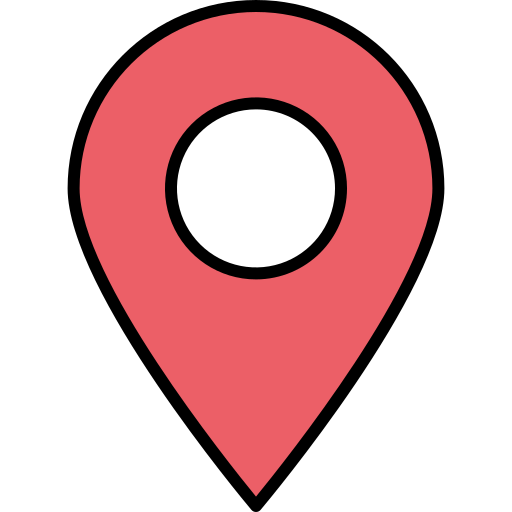
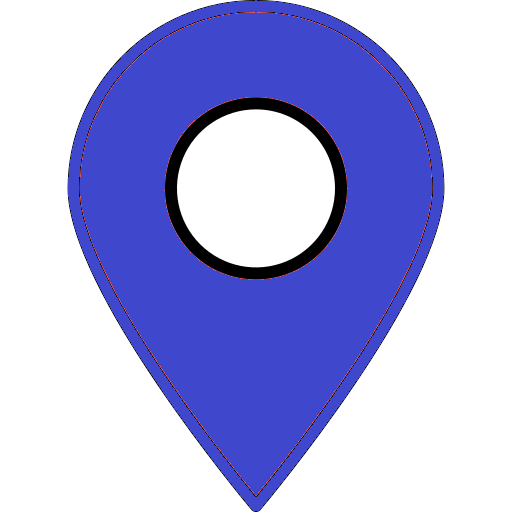
inicialmente colocando o visual de informações do comercio individual e insert

diff --git a/app/templates/mapa.html b/app/templates/mapa.html
@@ -23,7 +23,7 @@
             <meta name="viewport" content="width=device-width,
                 initial-scale=1.0, maximum-scale=1.0, user-scalable=no" />
             <style>
-                #map_e81b630deeb34ff785893fc095f26476 {
+                #map_9c63329d4e8943fe9f2af3c4706f98dd {
                     position: relative;
                     width: 75.0%;
                     height: 75.0%;
@@ -35,15 +35,15 @@
 </head>
 <body>    
     
-            <div class="folium-map" id="map_e81b630deeb34ff785893fc095f26476" ></div>
+            <div class="folium-map" id="map_9c63329d4e8943fe9f2af3c4706f98dd" ></div>
         
 </body>
 <script>    
     
-            var map_e81b630deeb34ff785893fc095f26476 = L.map(
-                "map_e81b630deeb34ff785893fc095f26476",
+            var map_9c63329d4e8943fe9f2af3c4706f98dd = L.map(
+                "map_9c63329d4e8943fe9f2af3c4706f98dd",
                 {
-                    center: [35.803788, -83.580553],
+                    center: [30.70032, -86.12317],
                     crs: L.CRS.EPSG3857,
                     zoom: 15,
                     zoomControl: true,
@@ -55,26 +55,26 @@
 
         
     
-            var tile_layer_f3495bce662d4694ae2483fb98a00d4b = L.tileLayer(
+            var tile_layer_99378c3328b74a20b4ee6708b00c0e3d = L.tileLayer(
                 "https://cartodb-basemaps-{s}.global.ssl.fastly.net/light_all/{z}/{x}/{y}.png",
                 {"attribution": "\u0026copy; \u003ca href=\"http://www.openstreetmap.org/copyright\"\u003eOpenStreetMap\u003c/a\u003e contributors \u0026copy; \u003ca href=\"http://cartodb.com/attributions\"\u003eCartoDB\u003c/a\u003e, CartoDB \u003ca href =\"http://cartodb.com/attributions\"\u003eattributions\u003c/a\u003e", "detectRetina": false, "maxNativeZoom": 18, "maxZoom": 18, "minZoom": 0, "noWrap": false, "opacity": 1, "subdomains": "abc", "tms": false}
-            ).addTo(map_e81b630deeb34ff785893fc095f26476);
+            ).addTo(map_9c63329d4e8943fe9f2af3c4706f98dd);
         
     
-            var marker_63ece5d92a1d429c9f3c5fd9ae830625 = L.marker(
-                [35.803788, -83.580553],
+            var marker_894ccc64c54346a9a7fcb6b7b943c7b5 = L.marker(
+                [30.70032, -86.12317],
                 {}
-            ).addTo(map_e81b630deeb34ff785893fc095f26476);
+            ).addTo(map_9c63329d4e8943fe9f2af3c4706f98dd);
         
     
-        var popup_2eaf15bf1f8940ee978cae3d973280e8 = L.popup({"maxWidth": "100%"});
+        var popup_032273bb513a40c3aee0a6720eec5018 = L.popup({"maxWidth": "100%"});
 
         
-            var html_3bd1d4d18b8c409eb6aa51de6e1780c1 = $(`<div id="html_3bd1d4d18b8c409eb6aa51de6e1780c1" style="width: 100.0%; height: 100.0%;">Taco Bell</div>`)[0];
-            popup_2eaf15bf1f8940ee978cae3d973280e8.setContent(html_3bd1d4d18b8c409eb6aa51de6e1780c1);
+            var html_88ff505be2c34930be19180627d7d13c = $(`<div id="html_88ff505be2c34930be19180627d7d13c" style="width: 100.0%; height: 100.0%;">SONIC Drive-In</div>`)[0];
+            popup_032273bb513a40c3aee0a6720eec5018.setContent(html_88ff505be2c34930be19180627d7d13c);
         
 
-        marker_63ece5d92a1d429c9f3c5fd9ae830625.bindPopup(popup_2eaf15bf1f8940ee978cae3d973280e8)
+        marker_894ccc64c54346a9a7fcb6b7b943c7b5.bindPopup(popup_032273bb513a40c3aee0a6720eec5018)
         ;
 
         

diff --git a/app/templates/insercao.html b/app/templates/insercao.html
@@ -31,22 +31,45 @@
 		<h2>Inserção</h2>
 		<form action="/salvar_insercao" method="POST" name="frm_insercao" class="ml-3">
 			<div class="form-group">
-				<label for="nome">Nome:</label>
-				<input type="text" class="form-control" name="nome">
+				<label for="name">Nome:</label>
+				<input type="text" class="form-control" name="name">
 			</div>
 			<div class="form-group">
-				<label for="idade">Idade:</label>
-				<input type="number" class="form-control" name="idade" min="1" max="125">
+				<label for="address">Address:</label>
+				<input type="text" class="form-control" name="address" min="1" max="255">
 			</div>
 			<div class="form-group">
-				<select class="form-control" name="sexo">
-					<option value="M">Sexo: Masculino</option>
-					<option value="F">Sexo: Feminino</option>
+				<label for="categories">categories:</label>
+				<input type="text" class="form-control" name="categories" min="1" max="255">
+			</div>
+			<div class="form-group">
+				<label for="city">Cidade:</label>
+				<input type="text" class="form-control" name="city" min="1" max="225">
+			</div>
+			<div class="form-group">
+				<label for="country">País:(Apenas 2 digitos)</label>
+				<input type="text" class="form-control" name="country" maxlength="2">
+			</div>
+			<div class="form-group">
+				<label for="latitude">Latitude:</label>
+				<input type="number" class="form-control" name="latitude" >
+			</div>
+			<div class="form-group">
+				<label for="longitude">Longitude:</label>
+				<input type="number" class="form-control" name="longitude">
+			</div>
+			<div class="form-group">
+				<label for="postalCode">PostalCode:</label>
+				<input type="number" class="form-control" name="postalCode">
+			</div>
+
+			<div class="form-group">
+				<select class="form-control col-md-2" name="province11">
+                                
+					{% for comercioProvincia in province %}
+						<option nowrap="true" >{{comercioProvincia.province}}</option>
+					{% endfor %}
 				</select>
-			</div>
-			<div class="form-group">
-				<label for="salario">Salário:</label>
-				<input type="text" class="form-control" name="salario">
 			</div>
 
 			<a href="/listagem" class="btn btn-secondary" role="button">Cancelar</a>

diff --git a/app/templates/comerciopesquisado.html b/app/templates/comerciopesquisado.html
@@ -11,7 +11,21 @@
     <title>Comercio</title>
 </head>
 <body>
-	<h2>{{pesquisa}}</h2>
+	<div class="container-fluid padding" style="background-color:rgb(248, 249, 250);"> 
+		<div class="row text-center padding ">
+			<div class="col-12">
+				<p>
+				
+				<img class="img-responsive center-block" src="../static/Imagens/enderecoazul-removebg.png" height= "200"; width = "156"; >
+				<p>
+					{% for comercio in conteudo %}
+					{{comercio.name}}
+					{% endfor %}
+				</p>
+				</p>
+			</div>
+		</div>
+		</div>
 
 {% include 'mapa.html' %}
 <ul class="container " >
@@ -46,7 +60,7 @@
 		<div class=" col-md-3">
 			<div style="display: flex; justify-content: center; margin: 50px;">
 
-			<img  src="../static/Imagens/endereco.png"height= "200"; width = "112";>
+			<img  src="../static/Imagens/enderecoazul-removebg.png"height= "200"; width = "112";>
 			<h1>Localizado</h1>
 
 			</div>
@@ -74,12 +88,12 @@
 
 		<div class="servico-content col-md-8" style="margin-top: 150px; margin-bottom: 100px;">
 			{% for comercio in conteudo %}
-				<h8 style = "font-size:12px; margin:60px; margin-top: 260px;">{{comercio.websites}}</h8>
+				<h8 style = "font-size:12px; margin:60px; margin-top: 260px;"><a href="{{comercio.websites}}">  {{comercio.websites}}</a></h8>
 			{% endfor %}
 		</div>
 
 		<div class=" servico-icon col-md-4">
-			<img src="../static/Imagens/websites.png"height= "400"; width = "312";>
+			<img src="../static/Imagens/enderecoazul.jpg"height= "400"; width = "312";>
 		</div>
 		
 	

diff --git a/app/controllers/default.py b/app/controllers/default.py
@@ -2,7 +2,7 @@ from flask import render_template, request
 from flask.helpers import send_file
 from app import app, db
 from flask_mysqldb import MySQL
-from app.models.tables import Pessoa
+from app.models.tables import Comercio
 import folium
 
 
@@ -84,25 +84,39 @@ def consulta():
 
 @app.route('/insercao')
 def insercao():
-    return render_template('insercao.html')
+
+    cur = mysql.connection.cursor()
+
+
+    #get articles
+    cur.execute("SELECT * FROM comercio_food")
+
+
+    conteudo = cur.fetchall()
+
+    return render_template('insercao.html',province=conteudo)
 
 
 @app.route('/salvar_insercao', methods=['POST'])
 
 def salvar_insercao():
-    form = Pessoa(request.form)
-    Nome = form.nome.data
-    Idade = form.idade.data
-    Sexo = form.sexo.data
-    Salario = form.salario.data
-
+    form = Comercio(request.form)
+    name = form.name.data
+    address = form.address.data
+    categories = form.categories.data
+    city = form.city.data
+    country = form.country.data
+    latitude = form.latitude.data
+    longitude = form.longitude.data
+    postalCode = form.postalCode.data
+    province = form.province.data
     
     
 
     cur = mysql.connection.cursor()
 
     #get articles
-    cur.execute("INSERT INTO pessoas(nome, idade, sexo, salario) VALUES(%s,%s,%s,%s)",(Nome, Idade, Sexo, Salario))
+    cur.execute("INSERT INTO pessoas(name, address, categories, city, country, latitude, longitude,postalCode, province) VALUES(%s,%s,%s,%s,%s, %d,%d, %d, %s)",(name, address, categories, city, country, latitude,longitude, postalCode, province))
 
     # commit to DB
     mysql.connection.commit()

diff --git a/app/models/tables.py b/app/models/tables.py
@@ -4,8 +4,13 @@ from wtforms import Form, StringField , IntegerField, FloatField, validators
 
 
 
-class Pessoa(Form):
-    nome = StringField('nome',[validators.Length(min=1,max=50)])
-    idade = IntegerField('idade')
-    sexo = StringField('sexo',[validators.Length(min=1,max=1)])
-    salario = FloatField('salario')
+class Comercio(Form):
+    name = StringField('name',[validators.Length(min=1,max=50)])
+    address = StringField('address',[validators.Length(min=1,max=255)])
+    categories = StringField('categories',[validators.Length(min=1,max=255)])
+    city = StringField('city',[validators.Length(min=1,max=255)])
+    country = StringField('country',[validators.Length(min=1,max=255)])
+    latitude = FloatField('latitude')
+    longitude = FloatField('longitude')
+    postalCode = IntegerField('postalCode')
+    province = StringField('province',[validators.Length(min=1,max=255)])
